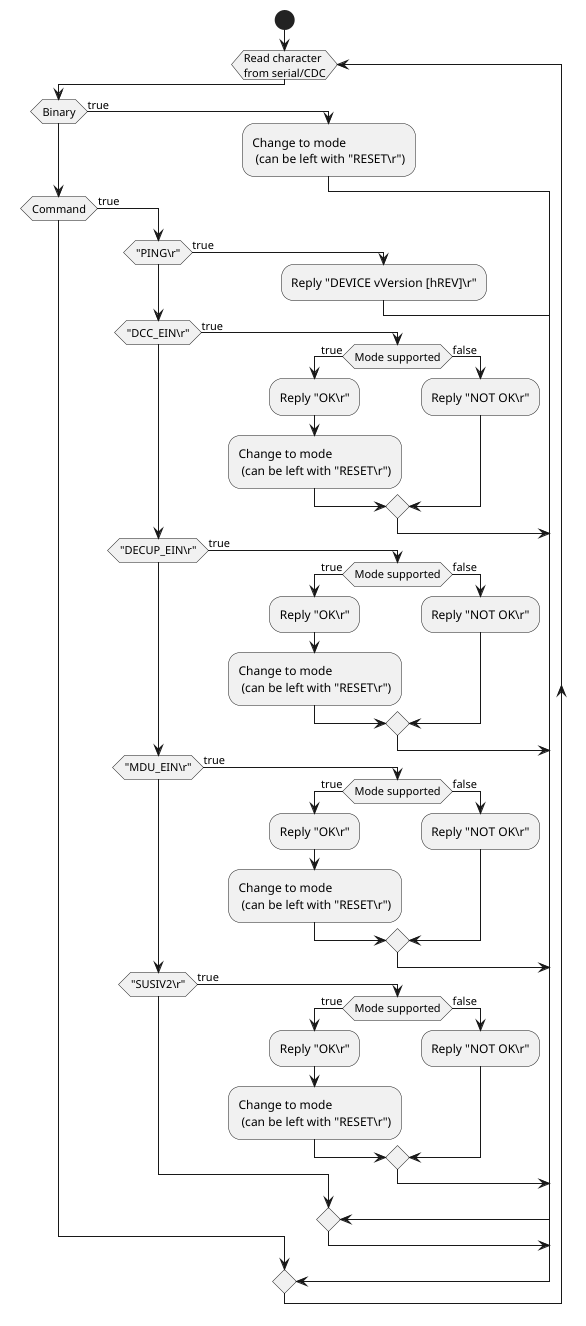
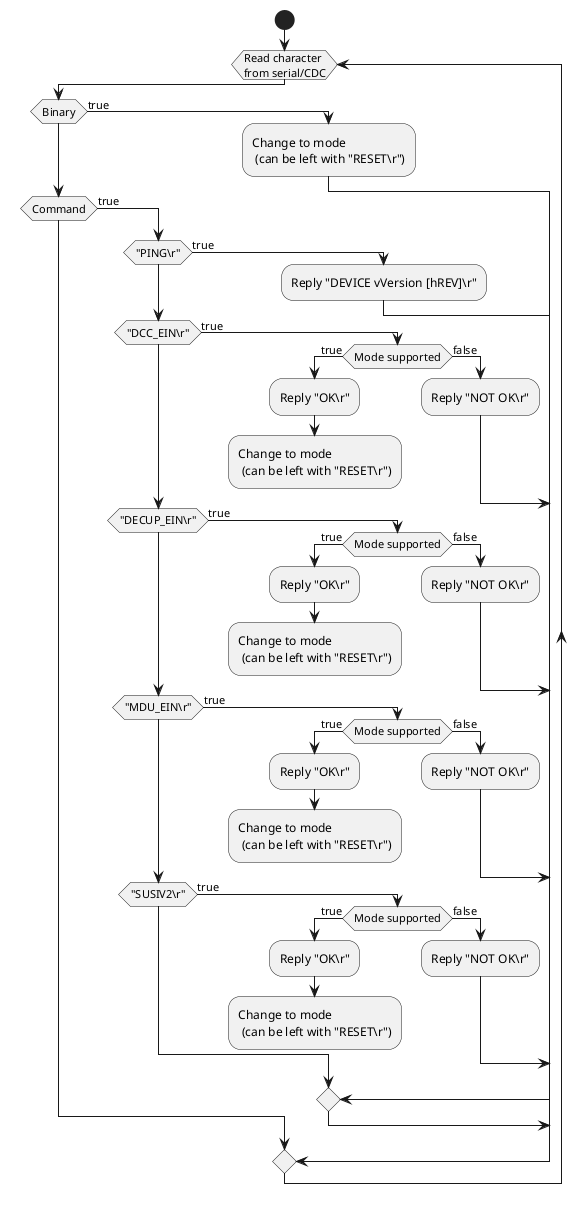
feat: add `RESET\r` command

diff --git a/include/ulf/com/ping.hpp b/include/ulf/com/ping.hpp
@@ -28,14 +28,14 @@ namespace ulf::com {
 constexpr auto ping(char const* device_name, char const* version) {
   assert(device_name && version);
   ztl::inplace_vector<char,
-                      ULF_COM_MAX_DEVICE_NAME_LEN +  // Device name
-                        sizeof(' ') +                // Space
-                        sizeof('v') +                // Version identifier
-                        ULF_COM_MAX_VERSION_LEN +    // Version
-                        sizeof(' ') +                // Space
-                        sizeof('h') +                // Revision identifier
-                        sizeof(char) +               // Revision
-                        sizeof('\r')>                // Carriage return
+                      ULF_COM_MAX_DEVICE_NAME_LEN + // Device name
+                        sizeof(' ') +               // Space
+                        sizeof('v') +               // Version identifier
+                        ULF_COM_MAX_VERSION_LEN +   // Version
+                        sizeof(' ') +               // Space
+                        sizeof('h') +               // Revision identifier
+                        sizeof(char) +              // Revision
+                        sizeof('\r')>               // Carriage return
     retval{};
   auto const first{cbegin(retval)};
   auto last{
@@ -70,4 +70,4 @@ ping(char const* device_name, char const* version, char revision) {
   return retval;
 }
 
-}  // namespace ulf::com
+} // namespace ulf::com

diff --git a/tests/com/str2cmd.cpp b/tests/com/str2cmd.cpp
@@ -49,6 +49,14 @@ TEST(str2cmd, string_valid) {
     EXPECT_EQ(b->value(), "PING\r");
   }
 
+  // Complete "RESET\r"
+  {
+    auto b{ulf::com::str2cmd("RESET\r")};
+    EXPECT_TRUE(b);
+    EXPECT_TRUE(*b);
+    EXPECT_EQ(b->value(), "RESET\r");
+  }
+
   // Complete "MDU_EIN\r"
   {
     auto b{ulf::com::str2cmd("MDU_EIN\r")};

diff --git a/include/ulf/com/commands.hpp b/include/ulf/com/commands.hpp
@@ -21,6 +21,7 @@ using namespace std::literals;
 inline constexpr std::array commands{
   // General
   "PING\r"sv,
+  "RESET\r"sv,
 
   // Protocols (mode changes)
   "DCC_EIN\r"sv,
@@ -29,4 +30,4 @@ inline constexpr std::array commands{
   "SUSIV2\r"sv,
 };
 
-}  // namespace ulf::com
+} // namespace ulf::com

diff --git a/include/ulf/com/not_ok.hpp b/include/ulf/com/not_ok.hpp
@@ -17,4 +17,4 @@ namespace ulf::com {
 /// Reply to received commands on failure
 inline constexpr std::string_view not_ok{"NOT OK\r"};
 
-}  // namespace ulf::com
+} // namespace ulf::com

diff --git a/include/ulf/com/ok.hpp b/include/ulf/com/ok.hpp
@@ -17,4 +17,4 @@ namespace ulf::com {
 /// Reply to received commands on success
 inline constexpr std::string_view ok{"OK\r"};
 
-}  // namespace ulf::com
+} // namespace ulf::com

diff --git a/include/ulf/com/str2cmd.hpp b/include/ulf/com/str2cmd.hpp
@@ -39,4 +39,4 @@ str2cmd(std::string_view str) {
   return std::nullopt;
 }
 
-}  // namespace ulf::com
+} // namespace ulf::com

diff --git a/include/ulf/com/str2mx1bin.hpp b/include/ulf/com/str2mx1bin.hpp
@@ -43,4 +43,4 @@ str2mx1bin(std::string_view str) {
   return std::nullopt;
 }
 
-}  // namespace ulf::com
+} // namespace ulf::com

diff --git a/CHANGELOG.md b/CHANGELOG.md
@@ -1,5 +1,8 @@
 # Changelog
 
+## 0.1.1
+- Add `"RESET\r"` command
+
 ## 0.1.0
 - Bugfix CMake always includes tests
 

diff --git a/README.md b/README.md
@@ -41,6 +41,9 @@ The support of many different protocols unfortunately makes the exact process of
 The following flowchart shows how to switch between the protocols. Receipt of any binary protocol command results in a switch to binary protocol. In order to switch to one of the other operating modes, the name of the protocol including carriage return character must be received. All modes can be exited by receiving a `"RESET\r"` command. This will restore the initial state.
 ![alt_text](data/images/operating_modes.png)
 
+> [!IMPORTANT]  
+> `"RESET\r"` commands **must** also be answered with `"OK\r"`.
+
 The ULF_COM library contains various helper functions that can help with recognizing the mode from a string. Please refer to [Usage](#usage) chapter for further details.
 
 ## Getting Started